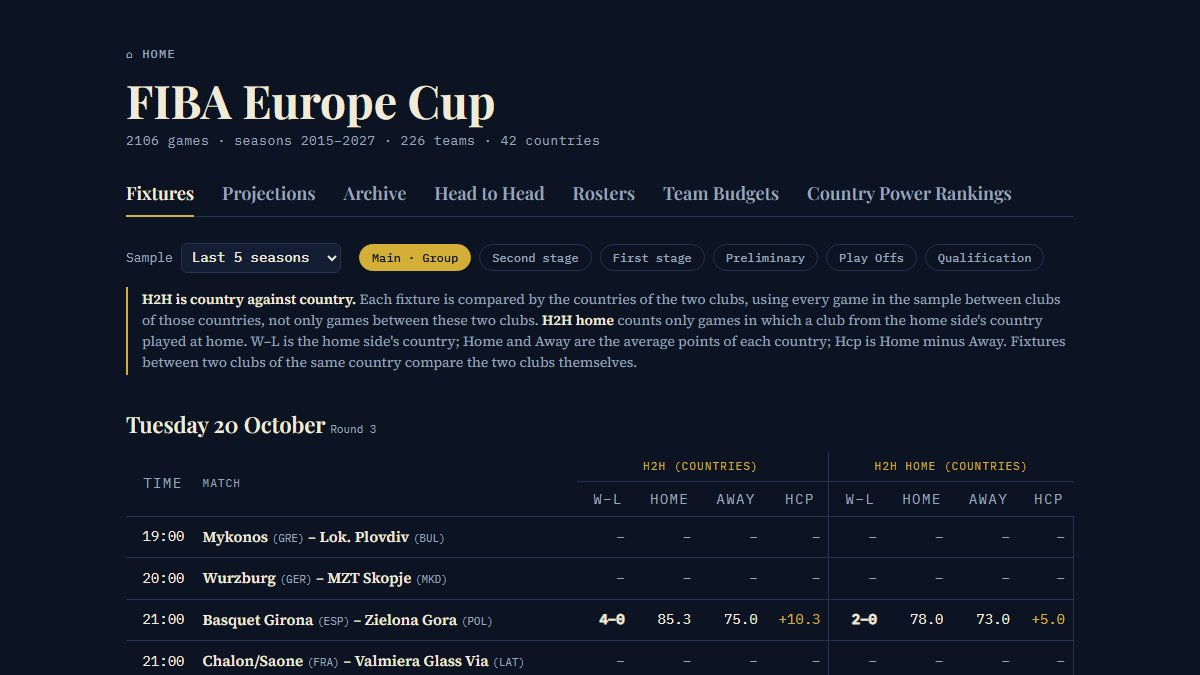
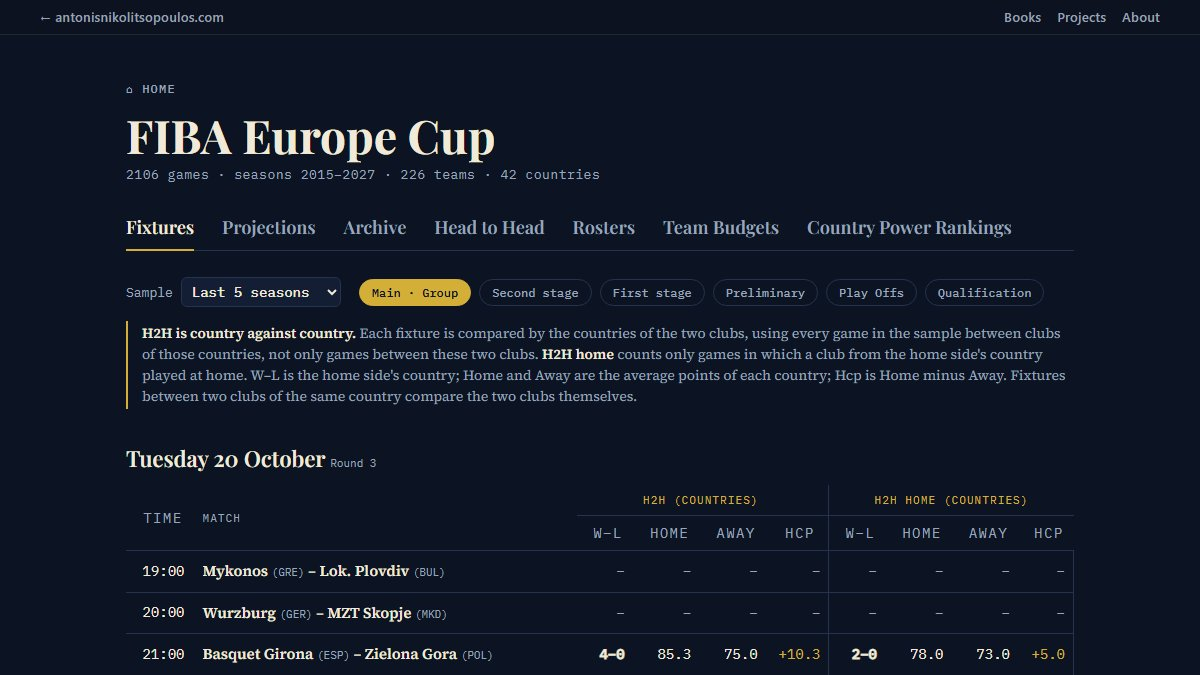
Project cards: fresh screenshots of every project page
- scripts/update_shots.py captures each project page (1200x675) with headless Chrome
  and cache-busts the card image
- Basketball card text no longer names the leagues; handball image is now a jpg

diff --git a/index.html b/index.html
@@ -351,7 +351,7 @@ body { overflow-x: clip; }  /* safety net */
           <span class="go">whatalgomissed.com <i aria-hidden="true">→</i></span>
         </a>
         <a class="card" href="/wine/">
-          <div class="card-shot"><img src="wine.jpg" width="1200" height="675" loading="lazy" alt="The Pairing Finder: Greek wines matched to dishes"></div>
+          <div class="card-shot"><img src="wine.jpg?v=3b440dcf" width="1200" height="675" loading="lazy" alt="The Pairing Finder: Greek wines matched to dishes"></div>
           <span class="tag">Wine &amp; food pairing</span>
           <h3>Wine</h3>
           <p>Greek wine, matched to the table. Choose a dish, an ingredient or a grape and see which of more than 160 bottles suit it, in English and Greek.</p>
@@ -370,38 +370,38 @@ body { overflow-x: clip; }  /* safety net */
       <p class="sec-intro">Independent analytics hubs for PAOK, a lifelong passion, and pricing models for the competitions that bookmakers price least.</p>
       <div class="cards">
         <a class="card" href="/paok-hub/">
-          <div class="card-shot"><img src="paok-hub.jpg?v=2" width="1200" height="675" loading="lazy" alt="PAOK Hub: the Expected Table"></div>
+          <div class="card-shot"><img src="paok-hub.jpg?v=4bc691d4" width="1200" height="675" loading="lazy" alt="PAOK Hub: the Expected Table"></div>
           <span class="tag">Stats hub · PAOK FC</span>
           <h3>PAOK Hub</h3>
           <p>PAOK's football seasons told through data: how the team plays, how the players perform, and how results compare with what the numbers expected.</p>
           <span class="go">Open <i aria-hidden="true">→</i></span>
         </a>
         <a class="card" href="/paok-basketball/">
-          <div class="card-shot"><img src="paok-basketball.jpg?v=2" width="1200" height="675" loading="lazy" alt="PAOK Basketball hub: next game and season leaders"></div>
+          <div class="card-shot"><img src="paok-basketball.jpg?v=5a607a8a" width="1200" height="675" loading="lazy" alt="PAOK Basketball hub: next game and season leaders"></div>
           <span class="tag">Stats hub · PAOK Basketball</span>
           <h3>PAOK Basketball</h3>
           <p>Everything about PAOK's basketball season in one place: roster, schedule, team and player stats, and standings.</p>
           <span class="go">Open <i aria-hidden="true">→</i></span>
         </a>
         <a class="card" href="/fibaeuropecup/">
-          <div class="card-shot"><img src="fibaeuropecup.jpg" width="1200" height="675" loading="lazy" alt="FIBA Europe Cup tool: head-to-head table"></div>
+          <div class="card-shot"><img src="fibaeuropecup.jpg?v=46b35bc3" width="1200" height="675" loading="lazy" alt="FIBA Europe Cup tool: head-to-head table"></div>
           <span class="tag">Model · Basketball</span>
           <h3>FIBA Europe Cup</h3>
           <p>Twelve seasons of the competition in one tool: head-to-heads by country and club, next-round fixtures with handicaps, projections and Elo power rankings.</p>
           <span class="go">Open <i aria-hidden="true">→</i></span>
         </a>
         <a class="card" href="/handball/">
-          <div class="card-shot"><img src="handball.png" width="1200" height="675" loading="lazy" alt="Handball value signals: projections page"></div>
+          <div class="card-shot"><img src="handball.jpg?v=2621d650" width="1200" height="675" loading="lazy" alt="Handball value signals: projections page"></div>
           <span class="tag">Model · Handball</span>
           <h3>Handball</h3>
           <p>Goal projections for women's leagues tested against the bookmakers' lines, plus Magdeburg's first-half pattern as a heavy home favourite.</p>
           <span class="go">Open <i aria-hidden="true">→</i></span>
         </a>
         <a class="card" href="/basketball/">
-          <div class="card-shot"><img src="basketball.jpg" width="1568" height="751" loading="lazy" alt="Basketball handicap projections: Turkey TBL next matches"></div>
+          <div class="card-shot"><img src="basketball.jpg?v=3e51471b" width="1200" height="675" loading="lazy" alt="Basketball handicap projections"></div>
           <span class="tag">Model · Basketball</span>
           <h3>Basketball projections</h3>
-          <p>Handicap projections for Turkey's TBL and the Czech NBL: who wins, by how much, and where the model beats the bookmakers' line, with the workings for every match.</p>
+          <p>Handicap projections for basketball leagues: who wins, by how much, and where the model beats the bookmakers' line, with the workings for every match.</p>
           <span class="go">Open <i aria-hidden="true">→</i></span>
         </a>
       </div>

diff --git a/scripts/update_shots.py b/scripts/update_shots.py
@@ -1,0 +1,92 @@
+"""Refresh the screenshots on the homepage's project cards.
+
+Run:  python scripts/update_shots.py
+A GitHub Action runs it every morning and after changes to the project folders, so the
+cards always show the current version of each page.
+
+Pages that live in this repo are served from the checkout (so a change shows up at once);
+the PAOK hubs live in their own repos and are captured from the live site.
+Needs Chrome (or Chromium) and Pillow.
+"""
+import hashlib
+import http.server
+import os
+import re
+import shutil
+import subprocess
+import tempfile
+import threading
+from functools import partial
+from pathlib import Path
+
+from PIL import Image
+
+ROOT = Path(__file__).resolve().parent.parent
+LIVE = "https://antonisnikolitsopoulos.com"
+SIZE = (1200, 675)
+
+# (card link on the homepage, image file name)
+SHOTS = [
+    ("/wine/", "wine"),
+    ("/paok-hub/", "paok-hub"),
+    ("/paok-basketball/", "paok-basketball"),
+    ("/fibaeuropecup/", "fibaeuropecup"),
+    ("/handball/", "handball"),
+    ("/basketball/", "basketball"),
+]
+
+
+def find_chrome():
+    for c in (os.environ.get("CHROME"), "google-chrome", "chromium", "chromium-browser",
+              r"C:\Program Files\Google\Chrome\Application\chrome.exe"):
+        if c and (shutil.which(c) or Path(c).exists()):
+            return shutil.which(c) or c
+    raise SystemExit("Chrome not found (set CHROME=path)")
+
+
+def serve_repo():
+    handler = partial(http.server.SimpleHTTPRequestHandler, directory=str(ROOT))
+    handler.log_message = lambda *a: None
+    srv = http.server.ThreadingHTTPServer(("127.0.0.1", 0), handler)
+    threading.Thread(target=srv.serve_forever, daemon=True).start()
+    return f"http://127.0.0.1:{srv.server_address[1]}"
+
+
+def capture(chrome, url, out_png, profile):
+    subprocess.run([chrome, "--headless=new", "--disable-gpu", "--hide-scrollbars", "--no-sandbox",
+                    "--force-device-scale-factor=1", "--virtual-time-budget=10000",
+                    f"--window-size={SIZE[0]},{SIZE[1]}", f"--user-data-dir={profile}",
+                    f"--screenshot={out_png}", url],
+                   check=False, capture_output=True, timeout=120)
+    return Path(out_png).exists() and Path(out_png).stat().st_size > 5000
+
+
+def main():
+    chrome = find_chrome()
+    local = serve_repo()
+    index = ROOT / "index.html"
+    html = index.read_text(encoding="utf-8")
+    tmp = Path(tempfile.mkdtemp())
+    for href, name in SHOTS:
+        if f'<a class="card" href="{href}">' not in html:
+            print(f"skip {href}: no card on the homepage")
+            continue
+        in_repo = (ROOT / href.strip("/") / "index.html").exists()
+        url = (local if in_repo else LIVE) + href
+        png = tmp / f"{name}.png"
+        if not capture(chrome, url, str(png), str(tmp / "profile")):
+            print(f"FAILED {href} ({url}); keeping the old image")
+            continue
+        jpg = ROOT / f"{name}.jpg"
+        Image.open(png).convert("RGB").resize(SIZE).save(jpg, quality=85, optimize=True)
+        v = hashlib.md5(jpg.read_bytes()).hexdigest()[:8]
+        html, n = re.subn(
+            r'(<a class="card" href="' + re.escape(href) + r'">\s*<div class="card-shot"><img src=")[^"]*(")',
+            lambda m: f"{m.group(1)}{name}.jpg?v={v}{m.group(2)}", html, count=1)
+        print(f"{href}: {'updated' if n else 'image saved, card not matched'} ({'repo' if in_repo else 'live'})")
+    index.write_text(html, encoding="utf-8")
+    shutil.rmtree(tmp, ignore_errors=True)
+
+
+if __name__ == "__main__":
+    main()
